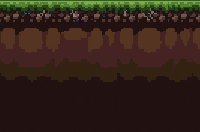
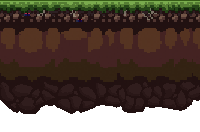
나무 피격 이미지 추가, 타일 이미지 수정

Changed region(s): [[0.0, 0.7576, 1.0, 1.0]]

diff --git a/tree.py b/tree.py
@@ -11,7 +11,7 @@ class Dead_tree1:
         self.type = type        #1 = hp 엘릭서, 2 - 공격력 엘릭서, 3- 폭발
         self.db_dead_tree_1 = load_image('ob_dead_tree_1.png')
         self.invincible, self.invincible_timer = False, 0
-        self.life =4
+        self.life =7
 
         self.cw = get_canvas_width()
         self.ch = get_canvas_height()
@@ -51,6 +51,10 @@ class Dead_tree1:
         if self.invincible:
             self.invincible_timer += 1
 
+
+        if self.invincible_timer == 10:
+            self.db_dead_tree_1 = load_image('ob_dead_tree_1.png')
+
         if self.invincible_timer == 29:
             self.invincible = False
             self.invincible_timer = 0
@@ -69,6 +73,7 @@ class Dead_tree1:
             if not self.invincible:
                 self.life -=1
                 self.invincible = True
+                self.db_dead_tree_1 = load_image('ob_dead_tree_1_hit.png')
         pass
 
 class Dead_tree2:
@@ -78,7 +83,7 @@ class Dead_tree2:
         self.type = type  # 1 = hp 엘릭서, 2 - 공격력 엘릭서, 3- 폭발
         self.ob_dead_tree_2 = load_image('ob_dead_tree_2.png')
         self.invincible, self.invincible_timer = False, 0
-        self.life =3
+        self.life =5
 
         self.cw = get_canvas_width()
         self.ch = get_canvas_height()
@@ -117,6 +122,9 @@ class Dead_tree2:
         if self.invincible:
             self.invincible_timer += 1
 
+        if self.invincible_timer == 10:
+            self.ob_dead_tree_2 = load_image('ob_dead_tree_2.png')
+
         if self.invincible_timer == 29:
             self.invincible = False
             self.invincible_timer = 0
@@ -135,5 +143,6 @@ class Dead_tree2:
             if not self.invincible:
                 self.life -=1
                 self.invincible = True
+                self.ob_dead_tree_2 = load_image('ob_dead_tree_2_hit.png')
         pass
 

diff --git a/broken_wood.py b/broken_wood.py
@@ -12,7 +12,7 @@ class Broken_wood1:
 
         self.ob_Ridges_6 = load_image('ob_Ridges_6.png')
         self.invincible, self.invincible_timer = False, 0
-        self.life =2
+        self.life =4
 
         self.cw = get_canvas_width()
         self.ch = get_canvas_height()
@@ -51,6 +51,9 @@ class Broken_wood1:
         if self.invincible:
             self.invincible_timer += 1
 
+        if self.invincible_timer == 10:
+            self.ob_Ridges_6 = load_image('ob_Ridges_6.png')
+
         if self.invincible_timer == 29:
             self.invincible = False
             self.invincible_timer = 0
@@ -68,4 +71,5 @@ class Broken_wood1:
             if not self.invincible:
                 self.life -=1
                 self.invincible = True
+                self.ob_Ridges_6 = load_image('ob_Ridges_6_hit.png')
         pass

diff --git a/big_slime1.py b/big_slime1.py
@@ -63,7 +63,7 @@ class Big_slime1:
         self.get_bb_x1, self.get_bb_y1, self.get_bb_x2, self.get_bb_y2 = x - 47, y - 56, x + 47, y + 35
         self.gravity = 0
         self.face_dir, self.move, self.speed = 1, 0, 1
-        self.hp_max, self.hp_now, self.hp_decrease,self.power = 1000, 1000, 1000, 300
+        self.hp_max, self.hp_now, self.hp_decrease,self.power = 1500, 1500, 1500, 300
         self.frame_Idle, self.frame_Idle_timer = 3, 0
         self.invincible, self.invincible_timer = False, 0
         self.cw = get_canvas_width()
